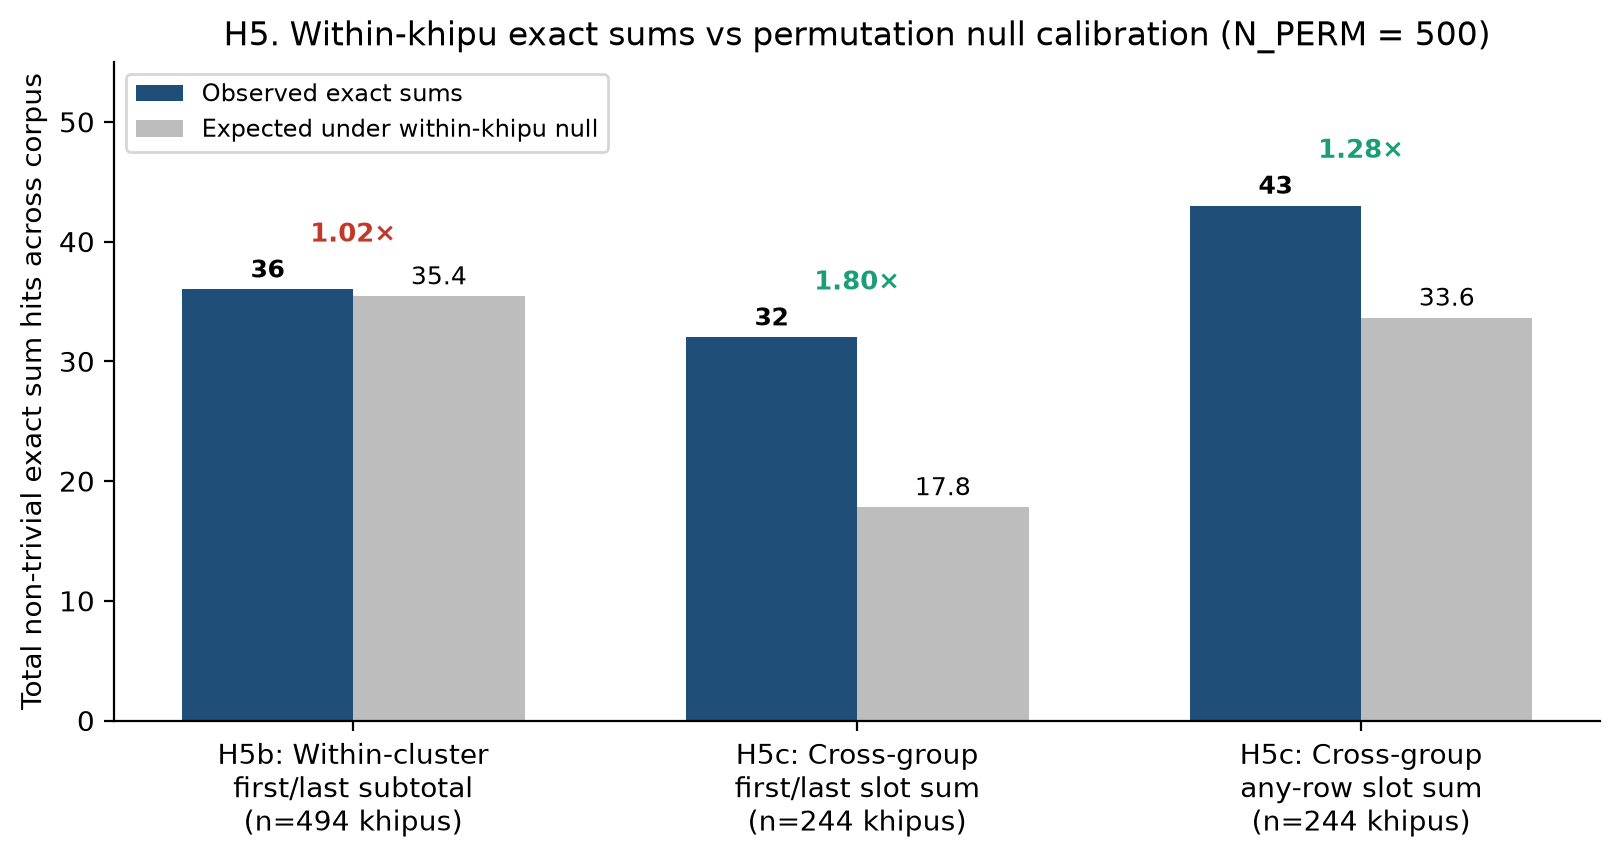
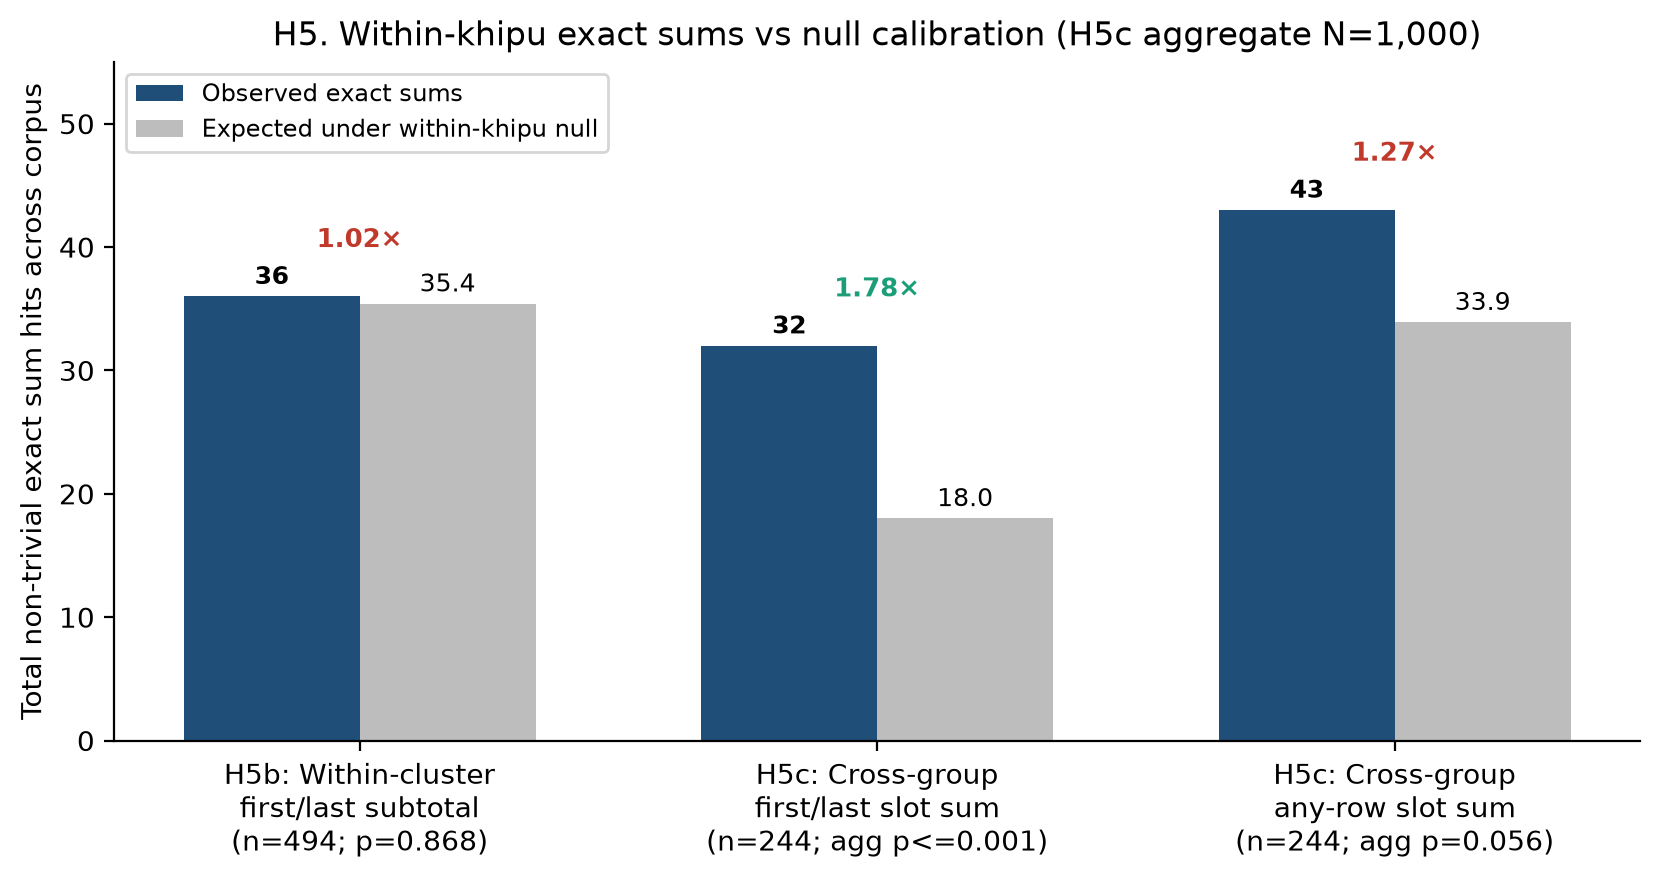
Sync fig4_h5_sums_vs_null with Table 4 (N=1000 aggregate null 18.0/33.9 and agg p)

diff --git a/src/make_figures.py b/src/make_figures.py
@@ -166,28 +166,30 @@ def fig4_h5_sums_vs_null():
     c = h5.dropna(subset=["h5c_hits"])
 
     cats = [
-        "H5b: Within-cluster\nfirst/last subtotal\n(n=494 khipus)",
-        "H5c: Cross-group\nfirst/last slot sum\n(n=244 khipus)",
-        "H5c: Cross-group\nany-row slot sum\n(n=244 khipus)",
+        "H5b: Within-cluster\nfirst/last subtotal\n(n=494; p=0.868)",
+        "H5c: Cross-group\nfirst/last slot sum\n(n=244; agg p<=0.001)",
+        "H5c: Cross-group\nany-row slot sum\n(n=244; agg p=0.056)",
     ]
-    obs = [b["h5b_hits"].sum(), c["h5c_hits"].sum(), c["h5c_any_hits"].sum()]
-    nul = [b["h5b_null"].sum(), c["h5c_null"].sum(), c["h5c_any_null"].sum()]
+    obs = [int(b["h5b_hits"].sum()), int(c["h5c_hits"].sum()), int(c["h5c_any_hits"].sum())]
+    # Null expectations from N=500 (H5b) and N=1,000 aggregate Monte Carlo (H5c, round2_checks.py)
+    nul = [round(float(b["h5b_null"].sum()), 1), 18.0, 33.9]
 
-    fig, ax = plt.subplots(figsize=(8.2, 4.4))
+    fig, ax = plt.subplots(figsize=(8.4, 4.5))
     x = np.arange(len(cats))
     w = 0.34
     ax.bar(x - w / 2, obs, width=w, color="#1f4e79", label="Observed exact sums")
     ax.bar(x + w / 2, nul, width=w, color="#bdbdbd", label="Expected under within-khipu null")
     for i in range(len(cats)):
         ratio = obs[i] / max(nul[i], 1e-9)
-        ax.text(x[i] - w / 2, obs[i] + 1.0, f"{int(obs[i])}", ha="center", fontsize=9, fontweight="bold")
+        ax.text(x[i] - w / 2, obs[i] + 1.0, f"{obs[i]}", ha="center", fontsize=9, fontweight="bold")
         ax.text(x[i] + w / 2, nul[i] + 1.0, f"{nul[i]:.1f}", ha="center", fontsize=9)
-        ax.text(x[i], max(obs[i], nul[i]) + 4.0, f"{ratio:.2f}×", ha="center", fontsize=9.5, color="#c0392b" if ratio < 1.1 else "#1b9e77", fontweight="bold")
+        ax.text(x[i], max(obs[i], nul[i]) + 4.0, f"{ratio:.2f}×", ha="center", fontsize=9.5,
+                color="#1b9e77" if i == 1 else "#c0392b", fontweight="bold")
     ax.set_xticks(x)
     ax.set_xticklabels(cats)
     ax.set_ylabel("Total non-trivial exact sum hits across corpus")
     ax.set_ylim(0, max(obs) + 12)
-    ax.set_title("H5. Within-khipu exact sums vs permutation null calibration (N_PERM = 500)")
+    ax.set_title("H5. Within-khipu exact sums vs null calibration (H5c aggregate N=1,000)")
     ax.legend(fontsize=8.5)
     plt.tight_layout()
     plt.savefig(FIGS / "fig4_h5_sums_vs_null.png", dpi=200, bbox_inches="tight")
